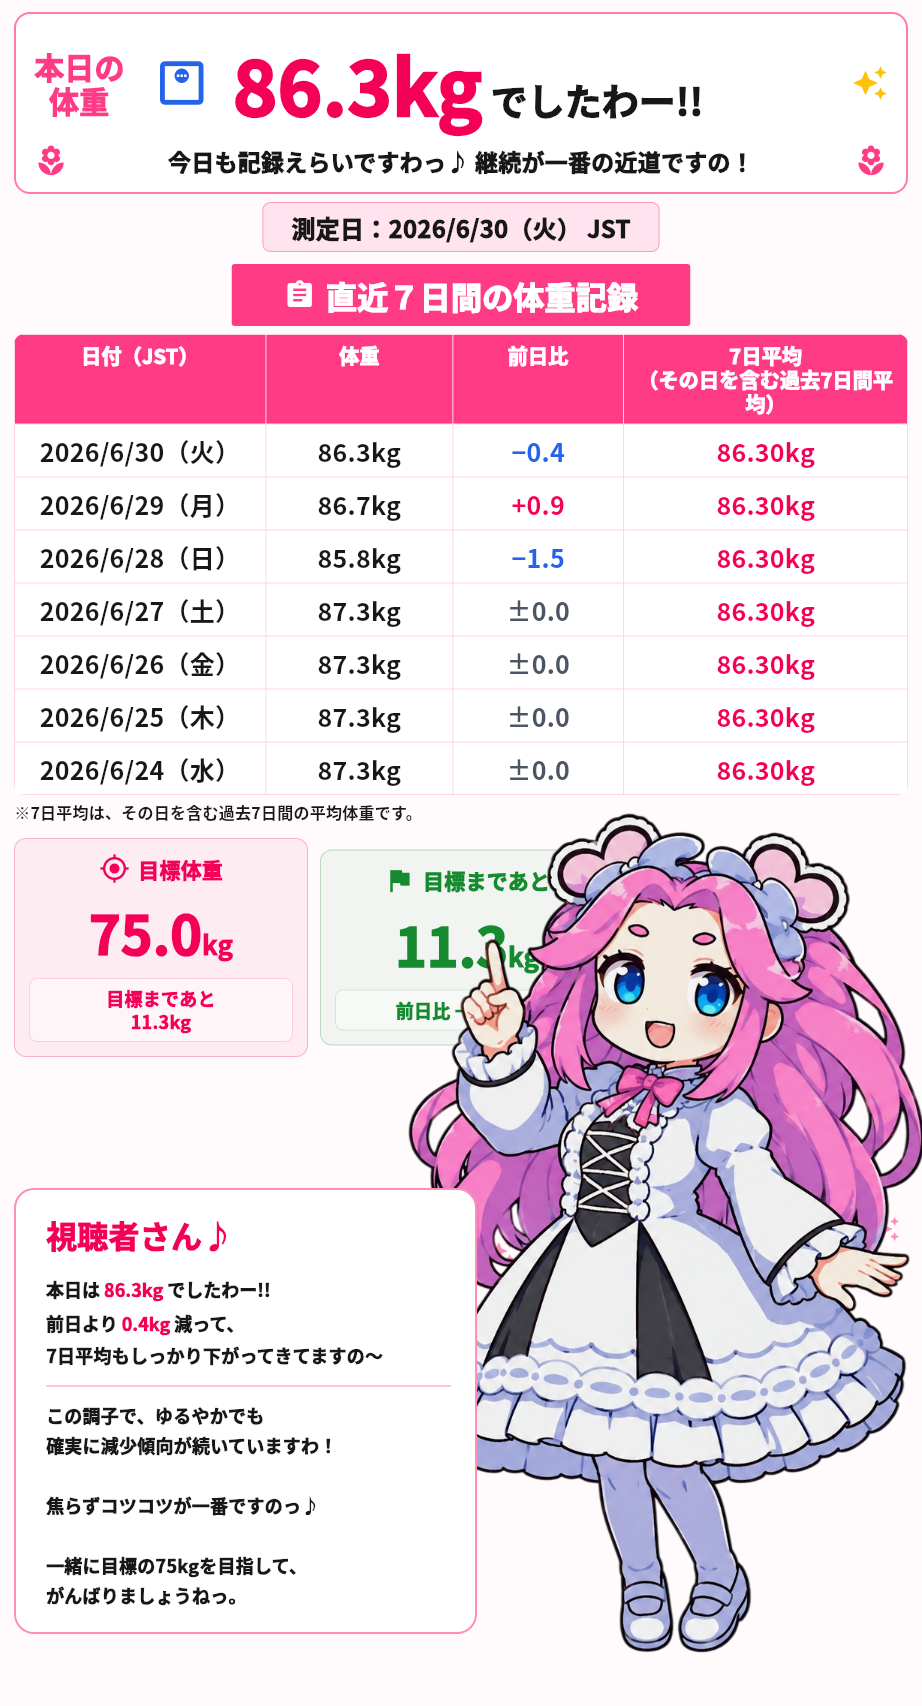
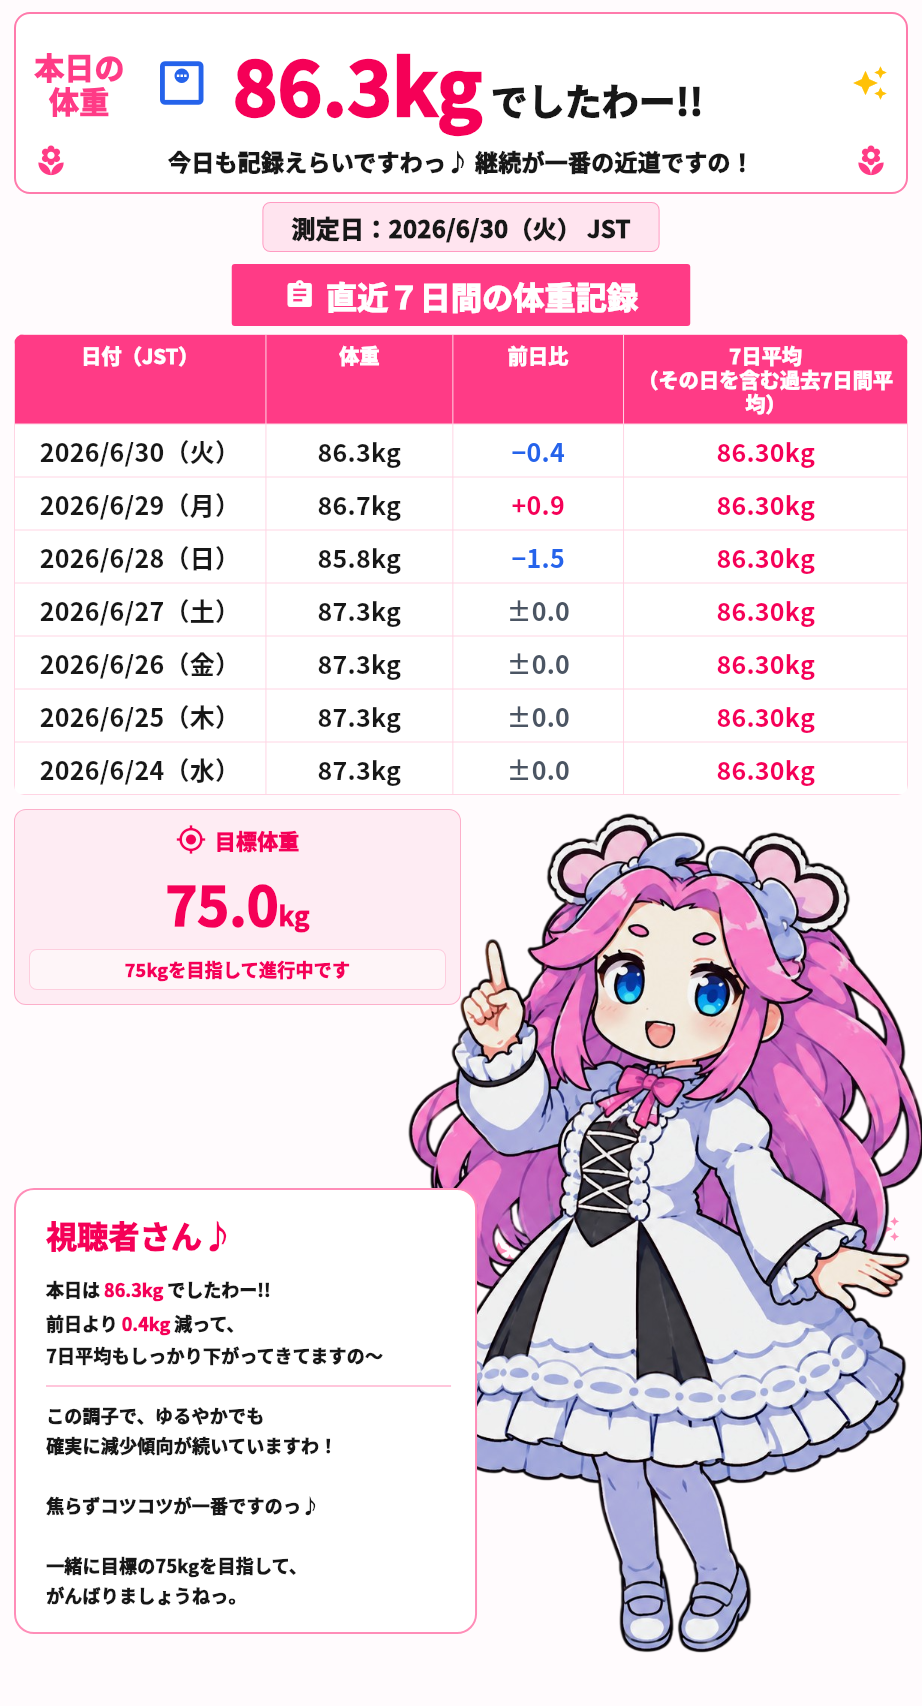
Remove report remaining target card

Changed region(s): [[0.0304, 0.466, 0.4252, 0.6213], [0.4252, 0.4971, 0.6074, 0.6213], [0.5466, 0.5592, 0.577, 0.5903]]

diff --git a/lib/screens/report_screen.dart b/lib/screens/report_screen.dart
@@ -7,7 +7,6 @@ import '../providers/weight_providers.dart';
 const _reportPink = Color(0xFFFF3B86);
 const _deepPink = Color(0xFFF50057);
 const _blue = Color(0xFF2563EB);
-const _green = Color(0xFF168A2F);
 const _ink = Color(0xFF171717);
 const _reportCharacterScale = 1.8;
 
@@ -49,9 +48,6 @@ class _ReportBody extends StatelessWidget {
         ? null
         : latestWeight - previous.weightKg;
     final effectiveAverage = sevenDayAverage ?? latestWeight;
-    final remaining = latestWeight == null
-        ? null
-        : (latestWeight - targetWeightKg).clamp(0, double.infinity).toDouble();
     final rows = _recentRows(entries, effectiveAverage);
 
     return LayoutBuilder(
@@ -87,23 +83,13 @@ class _ReportBody extends StatelessWidget {
                       _RibbonTitle(scale: scale),
                       const SizedBox(height: 8),
                       _SevenDayTable(rows: rows, scale: scale),
-                      const SizedBox(height: 6),
-                      const Text(
-                        '※7日平均は、その日を含む過去7日間の平均体重です。',
-                        style: TextStyle(fontSize: 16),
-                      ),
                       const SizedBox(height: 14),
-                      _SummaryCards(
-                        remaining: remaining,
-                        previousDiff: previousDiff,
-                        scale: scale,
-                      ),
+                      _SummaryCards(scale: scale),
                       const SizedBox(height: 14),
                       const Spacer(),
                       _CharacterMessageRow(
                         latestWeight: latestWeight,
                         previousDiff: previousDiff,
-                        remaining: remaining,
                         scale: scale,
                       ),
                     ],
@@ -355,14 +341,8 @@ class _SevenDayTable extends StatelessWidget {
 }
 
 class _SummaryCards extends StatelessWidget {
-  const _SummaryCards({
-    required this.remaining,
-    required this.previousDiff,
-    required this.scale,
-  });
+  const _SummaryCards({required this.scale});
 
-  final double? remaining;
-  final double? previousDiff;
   final double scale;
 
   @override
@@ -373,17 +353,8 @@ class _SummaryCards extends StatelessWidget {
         title: '目標体重',
         value: '75.0',
         unit: 'kg',
-        footer: '目標まであと\n${_formatNumber(remaining)}kg',
+        footer: '75kgを目指して進行中です',
         color: _deepPink,
-        scale: scale,
-      ),
-      _SummaryCard(
-        icon: Icons.flag,
-        title: '目標まであと',
-        value: _formatNumber(remaining),
-        unit: 'kg',
-        footer: '前日比 ${_formatSigned(previousDiff)}kg ▼',
-        color: _green,
         scale: scale,
       ),
     ];
@@ -391,19 +362,11 @@ class _SummaryCards extends StatelessWidget {
     return LayoutBuilder(
       builder: (context, constraints) {
         if (constraints.maxWidth < 560) {
-          return Column(
-            children: [
-              cards[0],
-              SizedBox(height: 10 * scale),
-              cards[1],
-            ],
-          );
+          return Column(children: [cards[0]]);
         }
         return Row(
           children: [
             Expanded(child: cards[0]),
-            SizedBox(width: 12 * scale),
-            Expanded(child: cards[1]),
             const Spacer(),
           ],
         );
@@ -507,13 +470,11 @@ class _CharacterMessageRow extends StatelessWidget {
   const _CharacterMessageRow({
     required this.latestWeight,
     required this.previousDiff,
-    required this.remaining,
     required this.scale,
   });
 
   final double? latestWeight;
   final double? previousDiff;
-  final double? remaining;
   final double scale;
 
   @override
@@ -544,7 +505,6 @@ class _CharacterMessageRow extends StatelessWidget {
                 child: _ViewerMessagePanel(
                   latestWeight: latestWeight,
                   previousDiff: previousDiff,
-                  remaining: remaining,
                   scale: scale,
                 ),
               ),
@@ -600,13 +560,11 @@ class _ViewerMessagePanel extends StatelessWidget {
   const _ViewerMessagePanel({
     required this.latestWeight,
     required this.previousDiff,
-    required this.remaining,
     required this.scale,
   });
 
   final double? latestWeight;
   final double? previousDiff;
-  final double? remaining;
   final double scale;
 
   @override

diff --git a/test/home_screen_golden_test.dart b/test/home_screen_golden_test.dart
@@ -232,6 +232,8 @@ void main() {
     expect(find.text('直近７日間の体重記録'), findsOneWidget);
     expect(find.text('視聴者さん♪'), findsOneWidget);
     expect(find.textContaining('毎日の積み重ねが'), findsNothing);
+    expect(find.textContaining('目標まであと'), findsNothing);
+    expect(find.textContaining('※7日平均は'), findsNothing);
     expect(find.byType(SingleChildScrollView), findsNothing);
     await expectLater(
       find.byType(ReportScreen),
